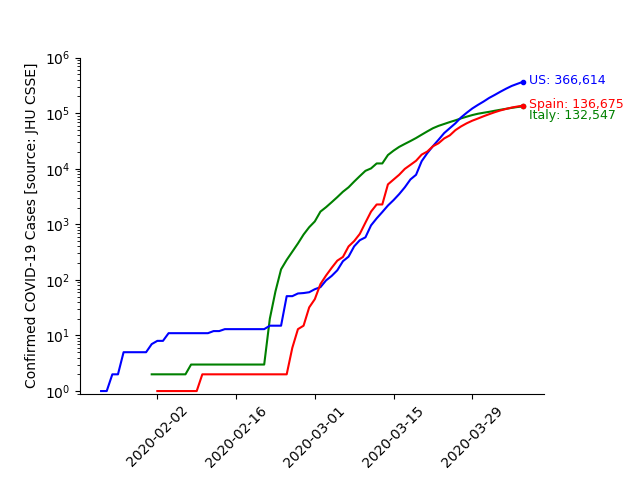
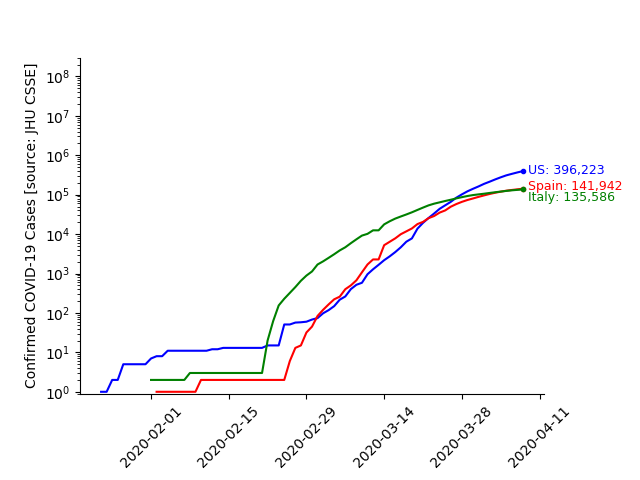
2020-04-07 updates

diff --git a/plot_cases.py b/plot_cases.py
@@ -38,24 +38,24 @@ fig, ax = plt.subplots()
 #plt.semilogy(dates[-1], cases_cn[-1], 'r.')
 #ax.annotate('China: {:,}'.format(cases_cn[-1]), (dates[-1]+dt.timedelta(days=1), 0.6*cases_cn[-1]), color='red', fontsize=9)
 
-plt.semilogy(dates[np.where(cases_it>0)[0][0]:], cases_it[cases_it>0], 'g-')
-plt.semilogy(dates[-1], cases_it[-1], 'g.')
-ax.annotate('Italy: {:,}'.format(cases_it[-1]), (dates[-1]+dt.timedelta(days=1), 0.60*cases_it[-1]), color='green', fontsize=9)
-
 plt.semilogy(dates[np.where(cases_us>0)[0][0]:], cases_us[cases_us>0], 'b-')
 plt.semilogy(dates[-1], cases_us[-1], 'b.')
-ax.annotate('US: {:,}'.format(cases_us[-1]), (dates[-1]+dt.timedelta(days=1), 0.90*cases_us[-1]), color='blue', fontsize=9)
+ax.annotate('US: {:,}'.format(cases_us[-1]), (dates[-1]+dt.timedelta(days=1), 0.85*cases_us[-1]), color='blue', fontsize=9)
 
 plt.semilogy(dates[np.where(cases_es>0)[0][0]:], cases_es[cases_es>0], 'r-')
 plt.semilogy(dates[-1], cases_es[-1], 'r.')
 ax.annotate('Spain: {:,}'.format(cases_es[-1]), (dates[-1]+dt.timedelta(days=1), 0.90*cases_es[-1]), color='red', fontsize=9)
+
+plt.semilogy(dates[np.where(cases_it>0)[0][0]:], cases_it[cases_it>0], 'g-')
+plt.semilogy(dates[-1], cases_it[-1], 'g.')
+ax.annotate('Italy: {:,}'.format(cases_it[-1]), (dates[-1]+dt.timedelta(days=1), 0.5*cases_it[-1]), color='green', fontsize=9)
 
 #plt.semilogy(dates[np.where(cases_sk>0)[0][0]:], cases_sk[cases_sk>0], '.-', label='South Korea')
 #plt.semilogy(dates[np.where(cases_jp>0)[0][0]:], cases_jp[cases_jp>0], '.-', label='Japan')
 #plt.semilogy(dates[np.where(cases_de>0)[0][0]:], cases_de[cases_de>0], '.-', label='Germany')
 #plt.semilogy(dates[np.where(cases_es>0)[0][0]:], cases_es[cases_es>0], '.-', label='Spain')
 
-ax.set_ylim([0.9,1e6])
+ax.set_ylim([0.9,300e6])
 ax.xaxis.set_tick_params(rotation=45, labelsize=10)
 fig.subplots_adjust(bottom=0.18, right=0.85)
 ax.spines['right'].set_visible(False)
